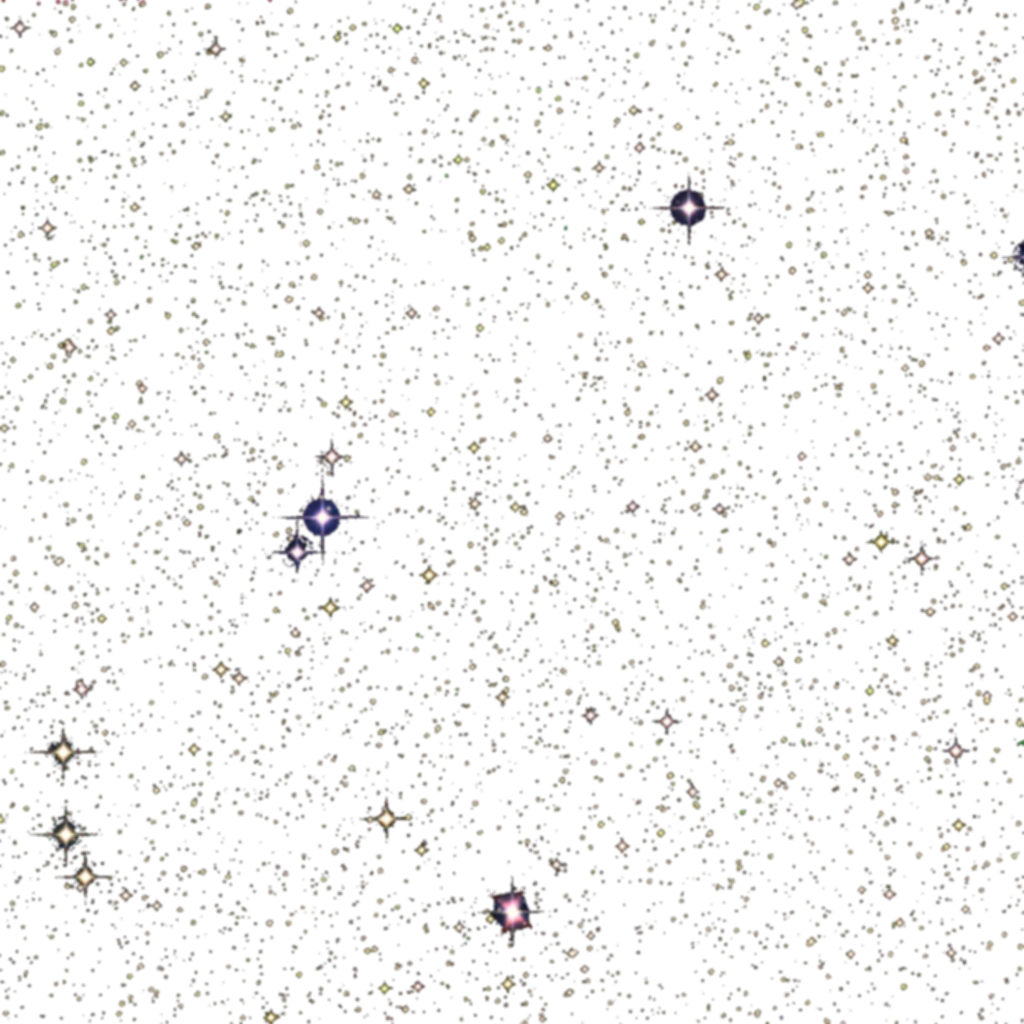
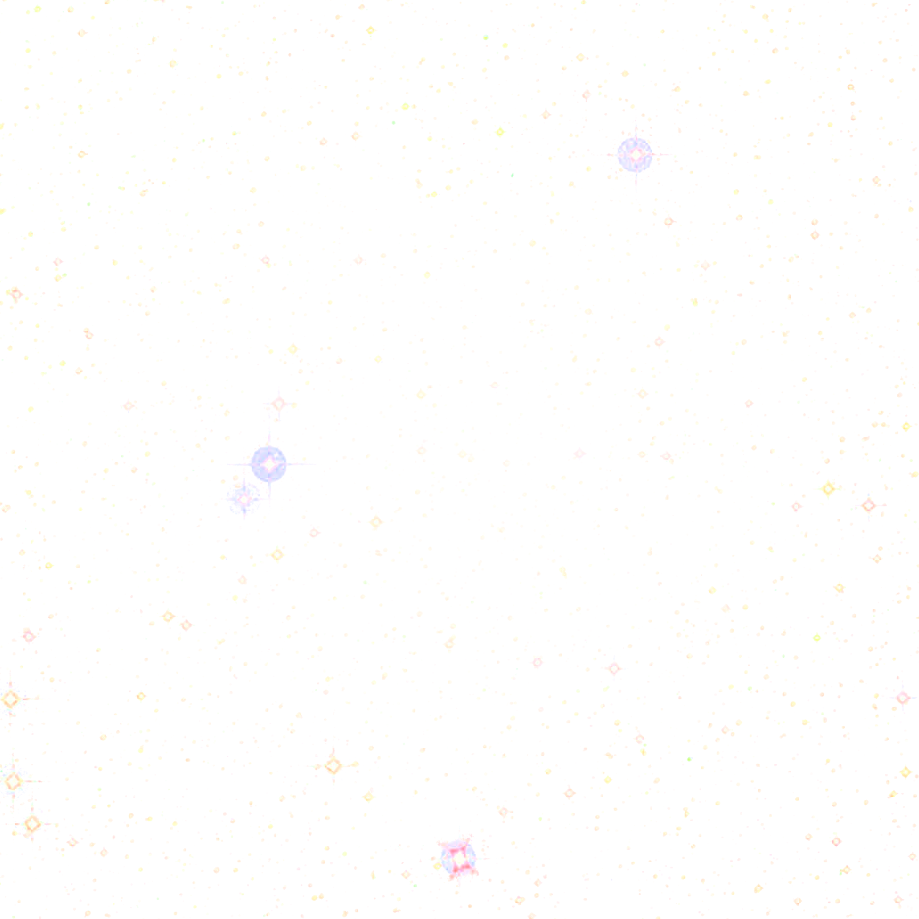
Improve image quality of background stars.

diff --git a/EventHorizonRider.Core/Components/SpaceComponents/Background.cs b/EventHorizonRider.Core/Components/SpaceComponents/Background.cs
@@ -17,7 +17,7 @@ namespace EventHorizonRider.Core.Components.SpaceComponents
         private const float gameOverAlpha = 0.5f;
 
         private readonly Color defaultColor = Color.Black;
-        private const float defaultAlpha = 0.8f;
+        private const float defaultAlpha = 1f;
 
         private Texture2D radialGradient;
         private Texture2D background;
@@ -96,7 +96,7 @@ namespace EventHorizonRider.Core.Components.SpaceComponents
             backgroundOrigin = new Vector2(background.Width/2f, background.Height/2f);
 
             backgroundScale = new Vector2(2f, 2f);
-            starsBackgroundScale = new Vector2(1.3f, 1.3f);
+            starsBackgroundScale = new Vector2(DeviceInfo.LogicalCenter.Length() / starsBackgroundOrigin.X);
         }
 
         protected override void DrawCore(SpriteBatch spriteBatch)

diff --git a/EventHorizonRider.Windows/Program.cs b/EventHorizonRider.Windows/Program.cs
@@ -29,6 +29,8 @@ namespace EventHorizonRider.Windows
 
             using (var game = new MainGame())
             {
+                game.SetResolution(1366, 768);
+
                 if (args.Length > 0 && args[0].Equals("Development", StringComparison.OrdinalIgnoreCase))
                 {
                     var developmentToolsForm = new DevelopmentToolsForm(game);
